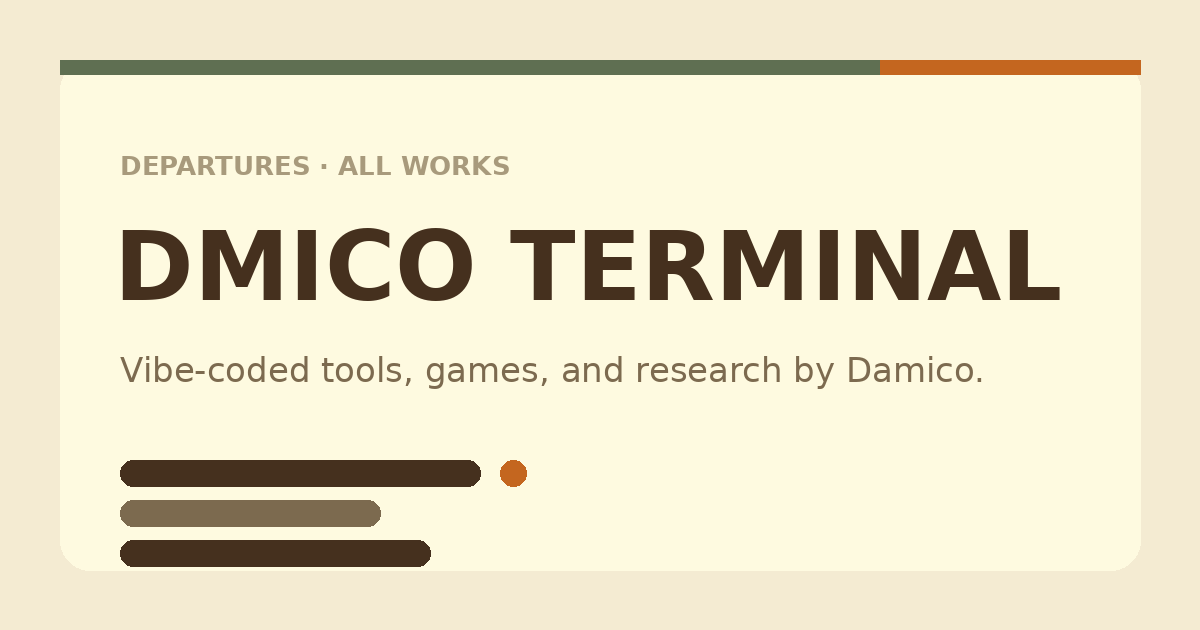
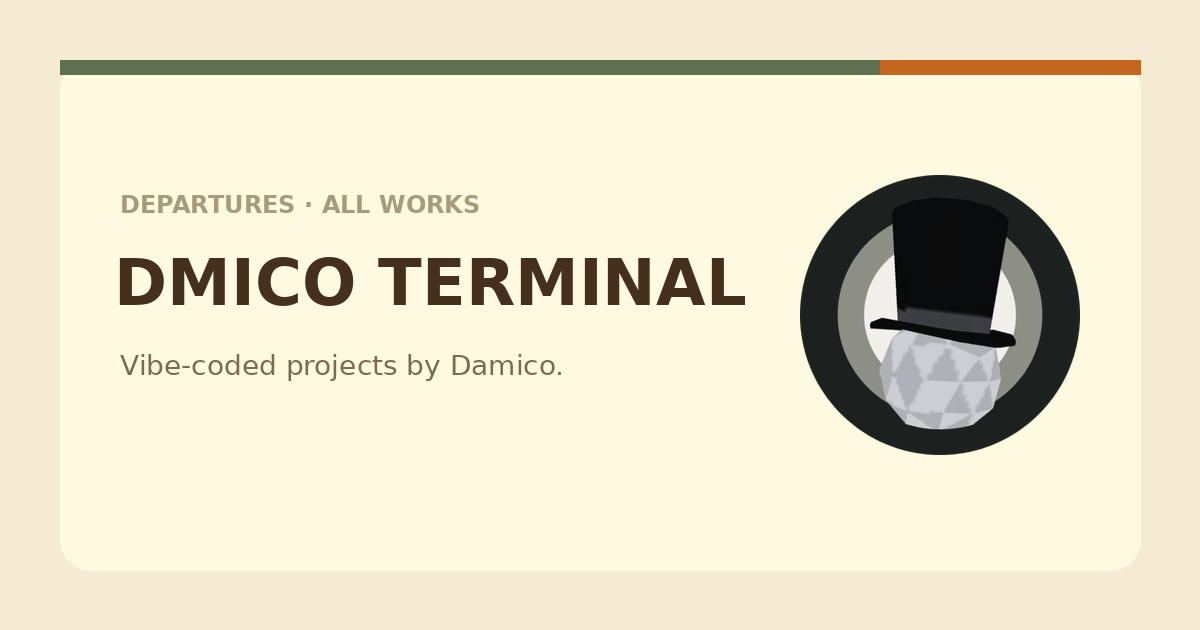
Update copy, assets, and cache version
Refresh site branding and assets: replace OG image and app icons, tweak meta/OG descriptions and the profile tagline, and add an avatar cache-bust query (?v=2) in links.js. Update GUIDE.md to explain the avatar version bump. Bump service worker CACHE_VERSION from v3 to v4 so clients pick up the new assets and content.

Changed region(s): [[0.0925, 0.2413, 0.925, 0.7238], [0.0925, 0.7238, 0.4625, 0.9048]]

diff --git a/index.html b/index.html
@@ -4,13 +4,13 @@
   <meta charset="UTF-8" />
   <meta name="viewport" content="width=device-width, initial-scale=1.0" />
   <title>DMICO Terminal</title>
-  <meta name="description" content="Departure board for everything DMICO: vibe-coded web tools, games, and research by Damico." />
+  <meta name="description" content="Departure board for everything DMICO: vibe-coded projects by Damico." />
   <meta name="theme-color" content="#F4EBD2" />
 
   <!-- Open Graph / social preview -->
   <meta property="og:type" content="website" />
   <meta property="og:title" content="DMICO Terminal" />
-  <meta property="og:description" content="Departure board for everything DMICO. Now boarding: vibe-coded tools, games, and research." />
+  <meta property="og:description" content="Departure board for everything DMICO. Now boarding: vibe-coded projects by Damico." />
   <meta property="og:url" content="https://ico506.github.io/dmico-terminal/" />
   <meta property="og:image" content="https://ico506.github.io/dmico-terminal/assets/og-image.png" />
   <meta name="twitter:card" content="summary_large_image" />

diff --git a/links.js b/links.js
@@ -28,8 +28,9 @@
 window.TERMINAL = {
   profile: {
     name: "DMICO",
-    tagline: "Vibe-coded tools, games, and research by Damico. Built in Sibu, Sarawak.",
-    avatar: "./assets/avatar.png"
+    tagline: "Vibe-coded projects by Damico.",
+    /* bump the ?v number whenever you replace the image, it defeats stale caches */
+    avatar: "./assets/avatar.png?v=2"
   },
 
   /* Social strip under the header. hidden: true to park one. */

diff --git a/sw.js b/sw.js
@@ -1,7 +1,7 @@
 /* DMICO Terminal service worker — network-first, minimal.
    Bump CACHE_VERSION when shipping changes so old caches clear. */
 
-var CACHE_VERSION = "dmico-terminal-v3";
+var CACHE_VERSION = "dmico-terminal-v4";
 var CORE = [
   "./",
   "./index.html",

diff --git a/GUIDE.md b/GUIDE.md
@@ -78,7 +78,7 @@ The token lives only in that browser's localStorage. It can touch only this one 
 - **Stale page after pushing a change?** Bump `CACHE_VERSION` in `sw.js`. Content-only edits to `links.js` usually show up fine, but CSS/JS changes hide behind the old cache until the version bumps.
 - **GitHub Pages is not instant.** A push takes ~1 minute to go live. Not broken, just brewing.
 - **The share preview (WhatsApp/IG) is hard-coded** in `index.html` OG tags and `assets/og-image.png`. Changing your tagline in `links.js` does not update the share preview; edit both if the wording matters.
-- **Avatar:** replace `assets/avatar.png` with a square image, keep the same filename, done. Same for the OG image.
+- **Avatar:** replace `assets/avatar.png` with a square image, keep the same filename, then bump the `?v=` number on the avatar path in `links.js` (browsers cache images hard and the version bump forces the refresh). Same trick works for any replaced image.
 - **Emoji icons vs thumbs:** `icon` is an emoji, `thumb` is an image path. If both exist, `thumb` wins.
 - **Never commit a token, an API key, or anything secret to this repo.** It is public. The design needs no secrets; keep it that way.
 - **QR code** (`assets/qr-dmico-terminal.png`) points at the GitHub Pages URL. If you ever buy a custom domain, regenerate it (any free QR generator, ink `#45301E` on `#F4EBD2` matches the brand).
